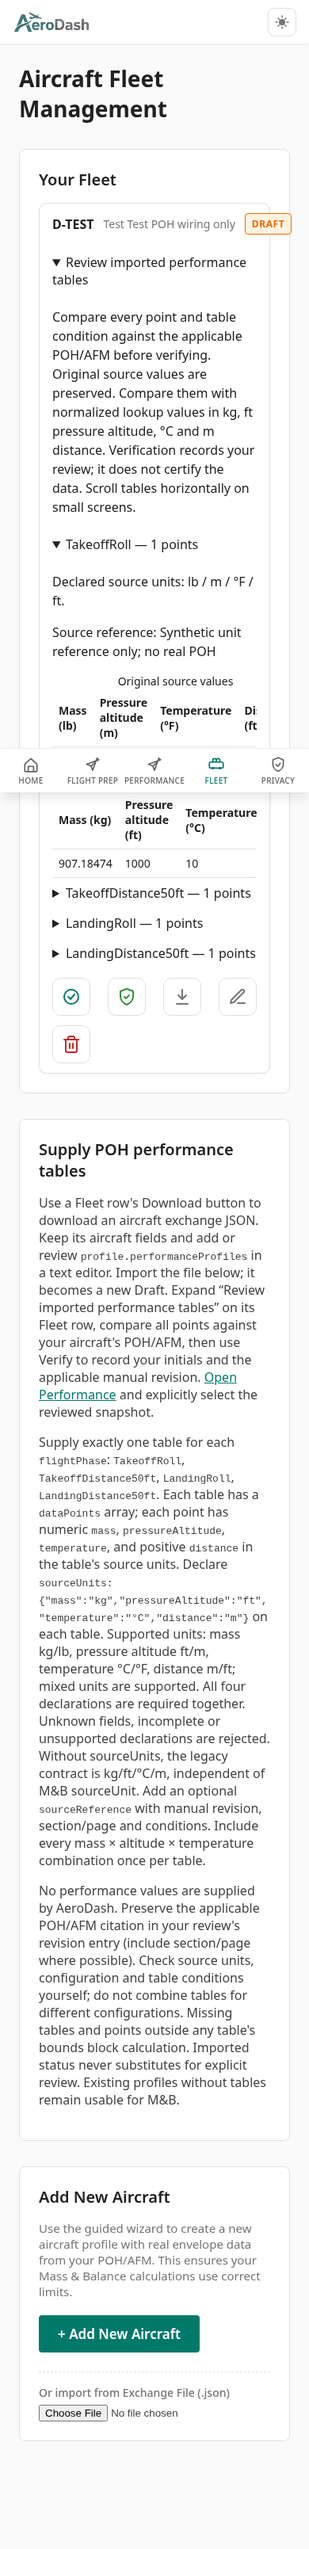
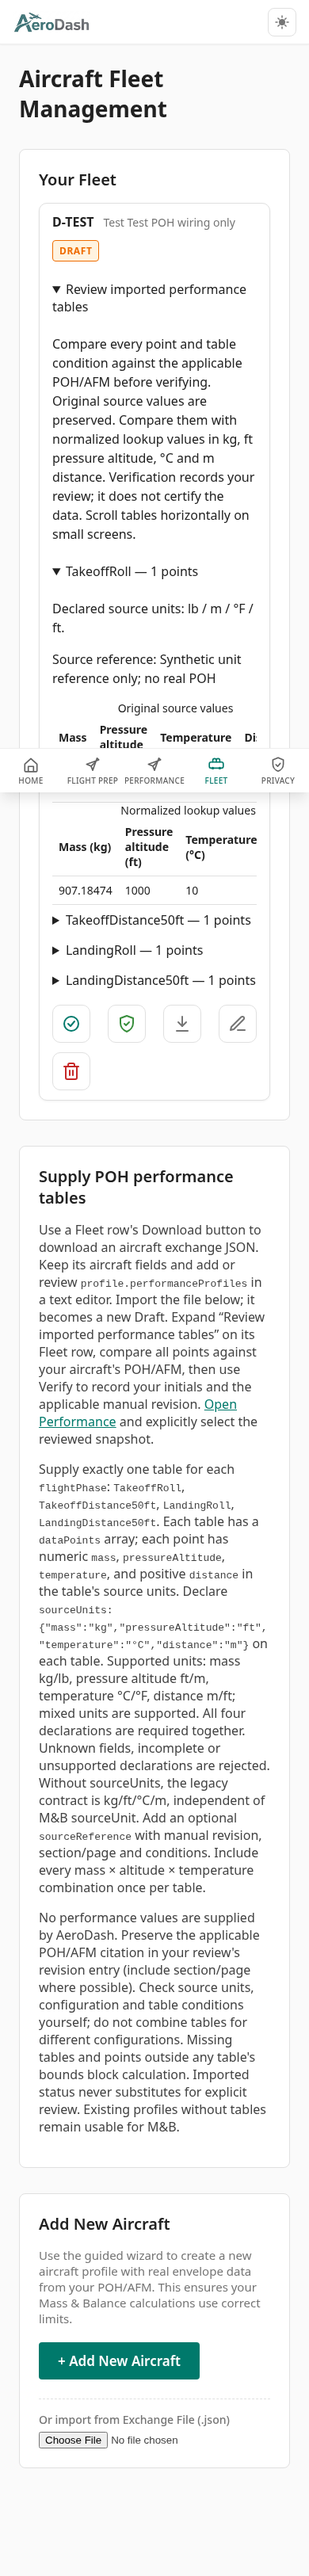
fix(ui): wrap mobile Fleet identity within viewport

diff --git a/frontend/src/modules/aircraft/components/FleetList.vue b/frontend/src/modules/aircraft/components/FleetList.vue
@@ -667,6 +667,10 @@ function onDismissUndo(): void {
     flex-wrap: wrap;
   }
 
+  .profile-item__identity {
+    flex-wrap: wrap;
+  }
+
   .profile-item__actions {
     justify-content: space-between;
     gap: 0.75rem;

diff --git a/docs/testing/evidence/performance-source-units/README.md b/docs/testing/evidence/performance-source-units/README.md
@@ -33,7 +33,10 @@ mixed-per-phase service test retain four distinct interpolated distances.
 Mobile table regions scroll horizontally; the page itself stays within 390px.
 The screenshots were visually inspected. The no-retry run followed correction
 of a test-helper persistence race and a mobile help-text overflow found during
-verification; earlier failed/flaky runs are not the final acceptance evidence.
+verification. Hosted Chromium also exposed a font-dependent 3px overflow of the
+Draft badge; the mobile identity row now wraps, retaining the strict page-width
+assertion and table scrolling. The named review finding was repaired in the same
+PR. Earlier failed/flaky runs are not the final acceptance evidence.
 
 ## Reproduction
 
